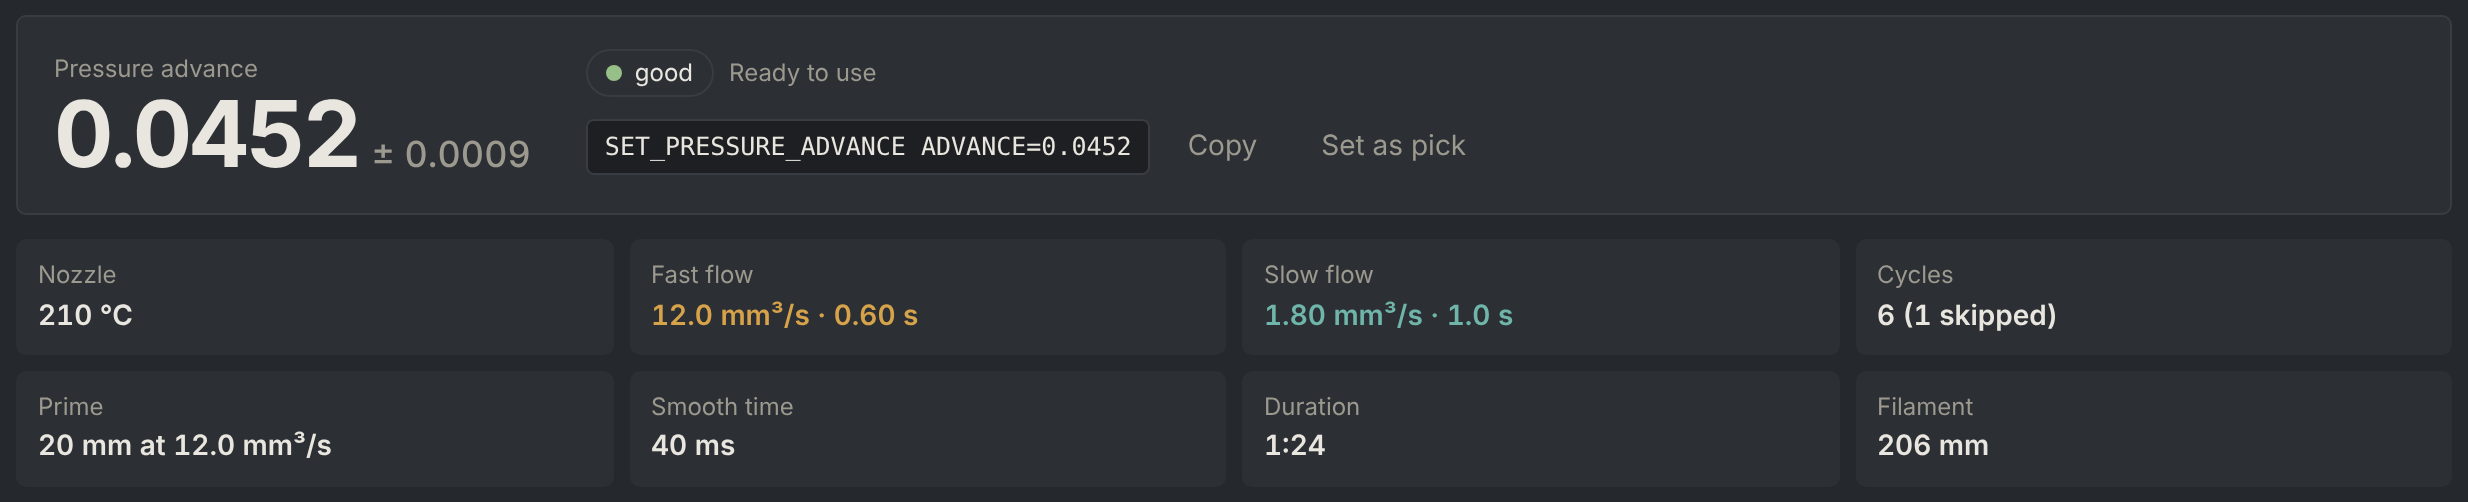
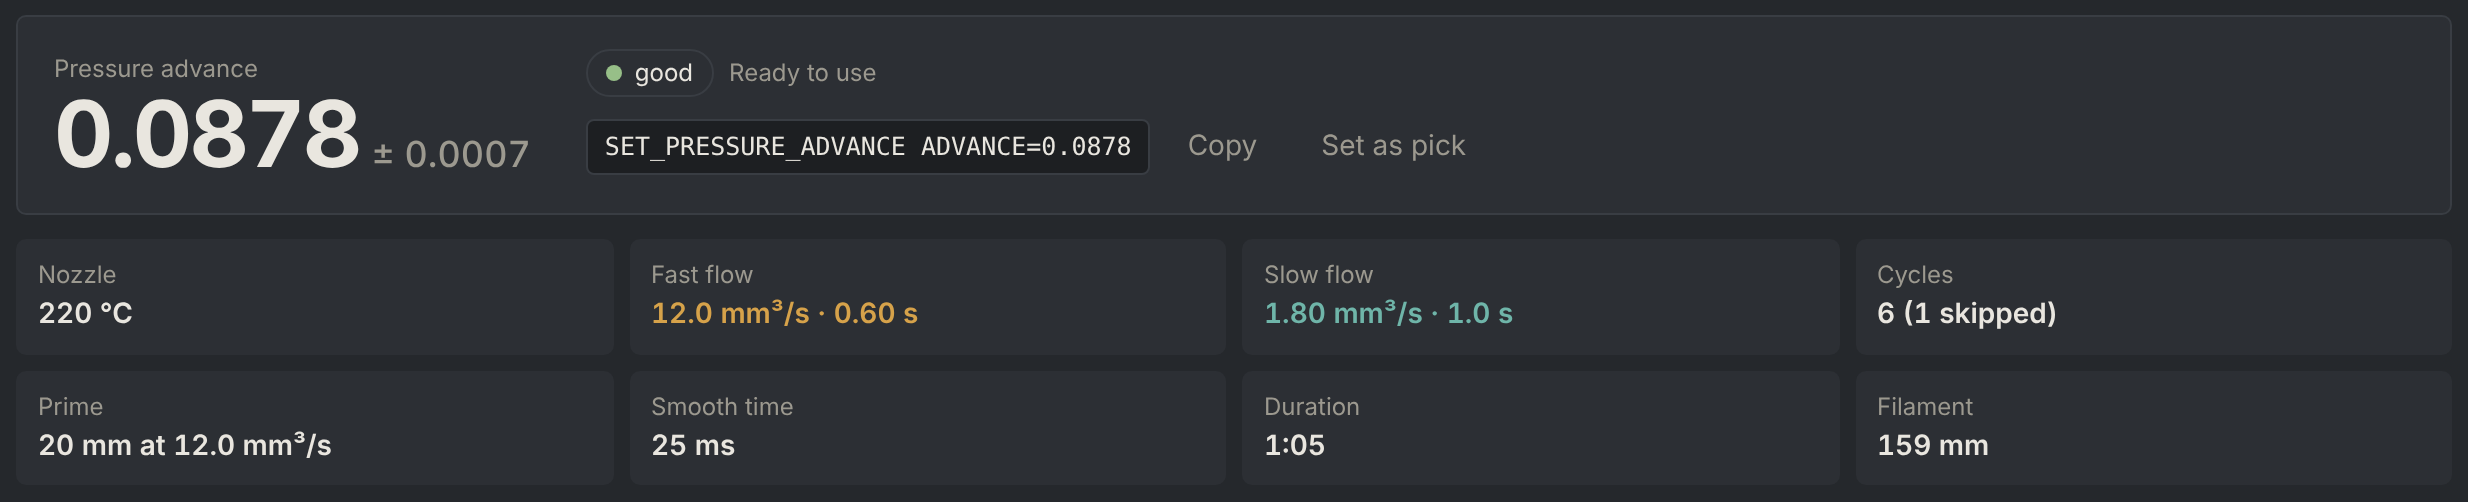
Wiki docs, shorter README

diff --git a/ui/index.html b/ui/index.html
@@ -1173,7 +1173,7 @@ function drawViewer(){if(!cur)return;const{seg,m,idx}=cur;$$('#vmode button').fo
   const cs=segCommand(m,seg,sm);hv.d.series=hv.d.series.concat(cs.series);hv.d.legend=cmdLegend(cs.series.length>0);
   hv.render();
   const thin=seg.decimated&&!(useChunk&&!chunk.dec);
-  $('#vinfo').textContent=(sm?sm.samples:seg.samples)+' samples'+(seg.rate?', '+seg.rate+' Hz':'')+'.'+(bandsOf(seg).length?' Blue bands are slow phases, amber bands are fast phases.':'')+(thin?' Zoom in to see every sample.':'')+cs.info}
+  $('#vinfo').textContent=(sm?sm.samples:seg.samples)+' samples'+(seg.rate?', '+seg.rate+' Hz':'')+'.'+(bandsOf(seg).length?' Teal bands: slow. Amber bands: fast.':'')+(thin?' Zoom in to see every sample.':'')+cs.info}
  else{const wins=edgeWindows(seg,vedge,e),series=wins.map(w=>({t:w.t,f:w.f,color:css('--dim'),alpha:.45,w:1}));
   let cmdS=[];
   if(e){const b=baselineOf(wins);series.push({t:e.t,f:e.y.map(v=>v*e.amp+b),color:css('--trace'),w:2.2,name:'mean'});
@@ -1190,7 +1190,7 @@ function segCommand(m,seg,sm){const fl=m.flows||(m.settings&&m.settings.fast_flo
  const legs=(seg.markers||[]).filter(k=>k.name==='slow'||k.name==='fast').map(k=>({t0:k.t0,t1:k.t1,flow:fl[k.name],pa:seg.pa})).sort((a,b)=>a.t0-b.t0);
  const sh=delayOf(m),series=commandSeries(legs,sm.cmd,{shift:sh,smooth:m.smooth_time});
  const off=(m.analysis||{}).offset;
- return{series,info:` Dashed: what the extruder was told, fitted at ${fmt(Math.abs(sm.cmd.gain),1)} ${seg.unit==='g'?'g':'counts'} per mm³/s`+(off!=null?`; sensor delay ${Math.round(off*1000)} ms (${DELAYMODE==='adj'?'line shifted by it':'raw times'})`:'')+'.'}}
+ return{series,info:` Dashed: command, ${fmt(Math.abs(sm.cmd.gain),1)} ${seg.unit==='g'?'g':'counts'} per mm³/s`+(off!=null?`. Sensor delay ${Math.round(off*1000)} ms (${DELAYMODE==='adj'?'adjusted':'raw'})`:'')+'.'}}
 /* ideal instant step at the edge (0 ms), in the units of the edge curve */
 function idealStep(e,fit,pa,m,pushColor){const pre=-(e.pre??.3),post=e.post??.3;
  return commandSeries([{t0:pre,t1:0,flow:0},{t0:0,t1:post,flow:1,pa}],fit,{shift:delayOf(m),smooth:m.smooth_time,pushColor})}
@@ -1228,7 +1228,7 @@ async function renderCmp(){$('#nCmp').textContent=cmp.length;$$('#cmode button')
     return{t:sg.t.map(x=>x-sh),f:sg.f,color:PAL[i%PAL.length],name:e.label}});
    cchart.set({series:series.concat(extra),legend:cmdLegend(extra.length>0),invert:INVERT,unit:cmp[0].unit==='g'?'g':'',dec:1,tfmt:t=>t.toFixed(2)+' s'})}catch(e){toast(e.message)}}
  const rows=cmp.map((e,i)=>{const d=e.edge&&e.edge[cedge];return`<tr><td><i style="display:inline-block;width:10px;height:3px;background:${PAL[i%PAL.length]};margin-right:8px"></i>${esc(e.label)}</td><td class="num">${d&&d.rise!=null?Math.round(d.rise*1000)+' ms':'-'}</td><td class="num">${d?Math.round(d.overshoot*100)+'%':'-'}</td><td class="num">${d?.snr??'-'}</td><td class="num">${d?.n??'-'}</td></tr>`}).join('');
- $('#ctable').innerHTML=`<table><thead><tr><th>Curve</th><th>10-90% ${cedge==='rise'?'rise':'fall'}</th><th>${cedge==='rise'?'Overshoot':'Dip below the line'}</th><th>Signal to noise</th><th>Edges</th></tr></thead><tbody>${rows}</tbody></table>`}
+ $('#ctable').innerHTML=`<table><thead><tr><th>Curve</th><th>10-90% ${cedge==='rise'?'rise':'fall'}</th><th>${cedge==='rise'?'Overshoot':'Dip'}</th><th>Signal to noise</th><th>Edges</th></tr></thead><tbody>${rows}</tbody></table>`}
 $$('#cmode button').forEach(b=>b.onclick=()=>{cmode=b.dataset.m;renderCmp()});$$('#cedge button').forEach(b=>b.onclick=()=>{cedge=b.dataset.e;renderCmp()});
 $('#calign').onchange=renderCmp;$('#cclear').onclick=()=>{cmp.length=0;renderCmp();$$('.pa .add').forEach(a=>a.setAttribute('aria-pressed','false'))};
 

diff --git a/README.md b/README.md
@@ -1,249 +1,64 @@
 # PIRO-EDGE
 
 Pressure advance calibration for Klipper using the load cell on the **PIRO-AIR** toolhead (HX717, 320 Hz).
-The nozzle extrudes fast and slow pulses into the air while the load cell measures the force. PA is raised until the
-force dips after the slow-down; the result is where the dip begins, with an error and a grade. Runs from the
-**Load Cell** page in the Mainsail sidebar.
+The nozzle extrudes fast and slow pulses into the air while the load cell measures the force. PA is raised until
+the force dips after the slow-down; the result is where the dip begins, with an uncertainty and a grade.
 
-Works with `[load_cell]` or `[load_cell_probe]`.
+Tested on printers with more than 200 runs across several filaments.
 
-> Tested offline against Klipper's load cell code and a simulated extruder. Not yet verified on every printer. Run
-> `PA_LOADCELL_DIAG` once before the first test.
+![PIRO-EDGE](docs/images/theme-piro.png)
+
+**[Documentation (wiki)](https://github.com/VcikeyTheCoder/piro-air-pa-calibrator/wiki)**: [Installation](https://github.com/VcikeyTheCoder/piro-air-pa-calibrator/wiki/Installation) ·
+[Configuration](https://github.com/VcikeyTheCoder/piro-air-pa-calibrator/wiki/Configuration) · [Commands](https://github.com/VcikeyTheCoder/piro-air-pa-calibrator/wiki/Commands) · [Using the page](https://github.com/VcikeyTheCoder/piro-air-pa-calibrator/wiki/Using-the-page) ·
+[Reading a result](https://github.com/VcikeyTheCoder/piro-air-pa-calibrator/wiki/Reading-a-result) · [How PIRO-EDGE works](https://github.com/VcikeyTheCoder/piro-air-pa-calibrator/wiki/How-PIRO-EDGE-works) · [Themes](https://github.com/VcikeyTheCoder/piro-air-pa-calibrator/wiki/Themes) ·
+[Troubleshooting](https://github.com/VcikeyTheCoder/piro-air-pa-calibrator/wiki/Troubleshooting)
+
+## Features
+
+- Adaptive search: usually 6 to 8 PA values instead of a fixed sweep, about 1 to 2 minutes per filament
+- Result with ± uncertainty and a *good / fair / poor* grade, converted to Klipper's smoothed PA
+- Graphs that show how the value was chosen, from the raw pulse to the final line fit
+- Live load cell graph, manual recordings, compare across runs, export and import of runs
+- Settings saved to `pa_loadcell.cfg`, five themes plus custom theme files
+- Works with `[load_cell]` and `[load_cell_probe]`
 
 ## Install
 
 ```bash
+cd ~
 git clone https://github.com/VcikeyTheCoder/piro-air-pa-calibrator.git
 cd piro-air-pa-calibrator && bash install.sh
 ```
 
-Update: `cd ~/piro-air-pa-calibrator && git pull && bash install.sh`, or **Update** on Mainsail's Machine page.
-Uninstall: `bash install.sh --uninstall`. Config and runs are kept.
-
-The installer links the Klipper module, creates or updates `pa_loadcell.cfg`, adds `[include pa_loadcell.cfg]`,
-the sidebar link, the nginx route `/loadcell/` and the Moonraker update entry, then restarts the services.
-Existing values are kept and obsolete options are commented out. Backups: `*.bak-pa_loadcell`.
-
-After installing, set `test_x/test_y` and `park_x/park_y`, then refresh Mainsail (Ctrl+F5).
-
-## Configuration
-
-```
-[pa_loadcell]
-load_cell: load_cell_probe
-#   [load_cell] or [load_cell_probe] section name.
-pa_max: 0.10
-#   First upper PA value.
-upper_step: 0.02
-#   Added to pa_max until the force dips.
-pa_limit: 0.20
-#   The test fails if there is no dip up to this value.
-cycles: 6
-#   Fast + slow pulses per PA value.
-fast_flow: 12
-fast_time: 0.6
-#   Fast leg, mm³/s and s.
-slow_flow: 1.8
-slow_time: 1.0
-#   Slow leg, mm³/s and s.
-prime_length: 20
-prime_flow: 12
-prime_rest: 1
-#   Prime before the first PA value: mm, mm³/s, then a pause in s.
-#   prime_length 0 disables it.
-rest_time: 0.3
-#   Pause before each PA value, s.
-max_filament: 400
-#   Filament limit per test, mm.
-skip_first_pulse: 1
-#   1 ignores the first pulse of each PA value.
-test_x:
-test_y:
-#   Extrusion position. Required.
-park_x:
-park_y:
-#   Park position after the test. Required.
-#filament:
-#   Stored with each run.
-min_temp: 200
-#   Minimum extruder temperature.
-required_z: 20
-z_tolerance: 0.5
-#   Z height at test start.
-sample_timeout: 3
-#   Seconds without load cell data before the test aborts.
-data_dir: ~/printer_data/pa_loadcell
-#   Run storage.
-ring_size: 60000
-live_idle: 15
-max_record_seconds: 300
-#   Live buffer (samples), streaming time after the last viewer (s),
-#   manual recording limit (s).
-#config_path:
-#   File Settings saves to. Default: pa_loadcell.cfg next to printer.cfg.
-```
-
-`[extruder]` needs no changes. Pulses are extrude-only, so `max_extrude_cross_section` does not apply. Fast flow and
-the PA push must stay under `max_extrude_only_velocity`; the page and the test check this.
-
-## Commands
-
-#### PA_LOADCELL_TEST
-`PA_LOADCELL_TEST [PA_MAX=<value>] [UPPER_STEP=<value>] [PA_LIMIT=<value>] [CYCLES=<count>]
-[FAST_FLOW=<mm³/s>] [FAST_TIME=<s>] [SLOW_FLOW=<mm³/s>] [SLOW_TIME=<s>] [PRIME_LENGTH=<mm>] [PRIME_FLOW=<mm³/s>]
-[PRIME_REST=<s>] [REST_TIME=<s>] [SKIP_FIRST=<0|1>] [MAX_FILAMENT=<mm>] [TEST_X=<mm>] [TEST_Y=<mm>]
-[PARK_X=<mm>] [PARK_Y=<mm>] [FILAMENT=<name>]`: Runs the PIRO-EDGE test. Omitted parameters come from
-`[pa_loadcell]`. Requires extruder at `min_temp`, all axes homed and Z at `required_z`. Pressure advance is set to 0
-during the test and restored after. The result is printed to the console and saved as a run.
-
-#### PA_LOADCELL_DIAG
-`PA_LOADCELL_DIAG`: Reads the load cell for 3 s and reports the sample rate and the delay of the newest sample
-behind print time. Expected: about 320 samples/s, 0.1 to 1.0 s.
-
-## The page
-
-Open **Load Cell** in the Mainsail sidebar, or `http://<printer>/loadcell/`.
-
-### Live
-
-![Live](docs/images/live.png)
-
-Load cell force, last 10 minutes. Drag to pan, scroll to zoom, **Live** to return. **Tare** zeroes the load cell.
-**Record** saves a recording; **Mark** adds a note to it.
-
-### PA test
-
-![PA test](docs/images/test.png)
-
-**Start test** runs the test. The step bar shows progress; the graph shows the pulses live. The side panel holds
-**Filament**, **PA max** and the last result. All other values are in **Settings**. The summary shows the expected
-PA values, duration and filament, and flags values the printer cannot reach.
-
-The header shows extruder temperature (actual / target) and Z.
-
-### History
-
-All runs with their results. Open a test run for its analysis.
-
-![Result](docs/images/answer.png)
-
-| Item | Shows |
-|---|---|
-| Result | PA value, error (±), grade (*good / fair / poor*), `SET_PRESSURE_ADVANCE` command, warnings |
-| Run info | Nozzle temperature, fast and slow flow and time, cycles, prime, smooth time, duration, filament |
-
-![Analysis](docs/images/how.png)
-
-| Item | Shows |
-|---|---|
-| Analysis | Each search step with its values |
-| Search path | Tested values in order. Teal: clean. Red: dip |
-| Pulse trace | Raw force of one pulse with its baseline |
-| Slow-down response | Force after the slow-down at each value |
-| Dip vs PA | Dip per value and the line fit to the edge |
-| All PA values | One preview per value. Click to open the trace |
-
-Below: **Pick** and notes, **Re-analyse**, **Export run** / **Import run** (`.palc.json`) and **Delete run**.
-
-### Settings
-
-![Settings](docs/images/settings.png)
-
-| Section | Contents |
-|---|---|
-| Appearance | Theme, custom themes |
-| Test defaults | `fast_flow`, `fast_time`, `slow_flow`, `slow_time`, `cycles`, `rest_time`, `prime_*`, `upper_step`, `pa_limit`, `skip_first_pulse`, `max_filament`, `pa_max` |
-| Positions | `test_x`, `test_y`, `park_x`, `park_y` |
-| Graphs | Command line colour |
-| Safety | `min_temp`, `required_z`, `z_tolerance`, `sample_timeout` (read only) |
-
-**Save** writes changed values to `[pa_loadcell]` in `pa_loadcell.cfg`. Comments and other sections are kept; the
-previous file is saved as `pa_loadcell.cfg.bak-pa_loadcell-ui`. Values are validated first. Saving is blocked while
-a test runs. New values apply to the next test without a restart.
-
-![Test defaults](docs/images/settings-defaults.png)
-
-The pulse diagram updates as values change.
-
-### Themes
-
-| Theme | Layout |
-|---|---|
-| PIRO | Graphite and amber, dark or light. Default |
-| Mainsail | Sidebar with printer status |
-| Fluidd | Icon rail |
-| RatOS | Zinc and lime, numbered steps |
-| Cat | Catppuccin Mocha (dark) or Latte (light) |
+Set `test_x/test_y` and `park_x/park_y` in `pa_loadcell.cfg`, then refresh Mainsail (Ctrl+F5). **Load Cell**
+appears in the sidebar. Details: [Installation](https://github.com/VcikeyTheCoder/piro-air-pa-calibrator/wiki/Installation).
 
 | | |
 |---|---|
-| **PIRO** dark<br>![PIRO](docs/images/theme-piro.png) | **PIRO** light<br>![PIRO light](docs/images/theme-piro-light.png) |
-| **Mainsail**<br>![Mainsail](docs/images/theme-mainsail.png) | **Fluidd**<br>![Fluidd](docs/images/theme-fluidd.png) |
-| **RatOS**<br>![RatOS](docs/images/theme-ratos.png) | **Cat** Mocha<br>![Cat Mocha](docs/images/theme-cat.png) |
-| **Cat** Latte<br>![Cat Latte](docs/images/theme-cat-light.png) | |
+| Update | `cd ~/piro-air-pa-calibrator && git pull && bash install.sh`, or **Update** on Mainsail's Machine page |
+| Uninstall | `bash install.sh --uninstall` (config and runs are kept) |
 
-Themes change colours and layout only. The choice is stored per browser. Select one by URL:
-`/loadcell/?theme=cat&mode=light`.
+## Commands
 
-**Custom themes.** **Export current theme** downloads the colours as `.json`. Edit the file and load it with
-**Import theme**. Custom themes are stored on the printer in `~/printer_data/pa_loadcell/themes/` and shared by all
-browsers. Files can also be copied into that folder.
-
-```json
-{
-  "format": "piro_edge_theme",
-  "version": 1,
-  "name": "Ocean",
-  "author": "you",
-  "base": "fluidd",
-  "mode": "dark",
-  "tokens": { "accent": "#ff6f61", "trace": "#4dd0e1", "bg": "#0d1117" }
-}
-```
-
-`base`: layout (`piro`, `mainsail`, `fluidd`, `ratos`, `cat`). Missing tokens come from the base.
-Tokens: `bg`, `panel`, `panel2`, `head`, `ph`, `rule`, `text`, `dim`, `trace`, `accent`, `onaccent`, `bad`, `good`,
-`fair`, `grid`, `fast`, `slow`, `cmd`, `radius`, `font`. Values: colours, sizes and font names only.
-
-### Compare
-
-![Compare](docs/images/compare.png)
-
-Press **+** on a PA value in History to overlay it here, as edge response or raw trace.
-
-## Data
-
-Runs are stored in `~/printer_data/pa_loadcell/run_NNNN/`. Runs from older versions are re-analysed with PIRO-EDGE
-when first opened.
-
-Webhooks (Moonraker `printer.pa_loadcell.<name>`): `live`, `info`, `defaults`, `runs`, `run`, `segment`, `tag`,
-`delete`, `record_start`, `record_stop`, `mark`, `cancel`, `export`, `reanalyze`, `import_begin`, `import_chunk`,
-`import_end`, `config_save`, `theme_list`, `theme_save`, `theme_delete`.
-
-## Development
-
-```
-python3 tests/test_backend.py                          # offline tests
-python3 tests/test_ui_backend.py                       # Settings and theme backend
-KLIPPER_DIR=~/klipper python3 tests/test_real_klipper.py # against a Klipper checkout
-pip install websockets && python3 tests/harness.py      # page with a simulated printer
-```
-
-The harness serves the page at `http://127.0.0.1:8080/?ws=127.0.0.1:8765`.
-
-## Troubleshooting
-
-| Problem | Fix |
+| Command | Description |
 |---|---|
-| No **Load Cell** in the sidebar | Refresh Mainsail with Ctrl+F5 |
-| "No load cell found" | Check `load_cell:` in `pa_loadcell.cfg` |
-| Values in counts, not grams | Run `LOAD_CELL_CALIBRATE`, then **Tare** |
-| "No dip up to PA 0.200" | Check for filament slip or a partial clog. For soft filament, raise `pa_limit` |
-| Grade *poor* | See the result warnings. Raise `cycles` or `fast_flow` |
-| Unknown config section `pa_loadcell` | Run `bash install.sh` again |
-| "No [pa_loadcell] section in the config file" | Set `config_path:` to the file that holds the section |
-| Theme import refused | Check token names and values against the list above |
+| `PA_LOADCELL_TEST` | Run the test. Parameters override `[pa_loadcell]`, e.g. `PA_LOADCELL_TEST FILAMENT="PETG black" FAST_FLOW=10` |
+| `PA_LOADCELL_DIAG` | Check the load cell stream: expect about 320 samples/s |
+
+The test needs the nozzle at `min_temp`, all axes homed and Z at `required_z` (20 mm). Apply the result with
+`SET_PRESSURE_ADVANCE ADVANCE=<value>`. All parameters: [Commands](https://github.com/VcikeyTheCoder/piro-air-pa-calibrator/wiki/Commands).
+
+## Example
+
+Fibreel red PLA at 220 °C: 6 PA values, 1:05, 159 mm of filament.
+
+![Result](docs/images/answer.png)
+
+![Analysis](docs/images/how.png)
+
+How each value was chosen: [How PIRO-EDGE works](https://github.com/VcikeyTheCoder/piro-air-pa-calibrator/wiki/How-PIRO-EDGE-works).
 
 ## Credits
 
-Pulse timing and parts of the analysis are based on [OznLab sensor](https://github.com/ozancs/oznlab-sensor) and [KAPAT](https://github.com/vzagranichnyy/KAPAT), both GPL-3.0.
+Pulse timing and parts of the analysis are based on [OznLab sensor](https://github.com/ozancs/oznlab-sensor) and
+[KAPAT](https://github.com/vzagranichnyy/KAPAT), both GPL-3.0.
